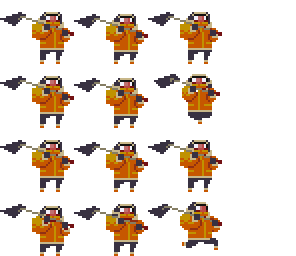
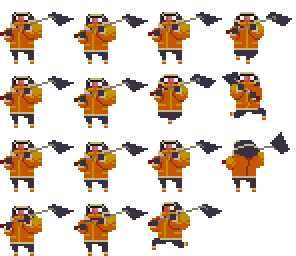
NPC tuning

diff --git a/src/entities/npc/NPC.cpp b/src/entities/npc/NPC.cpp
@@ -21,11 +21,13 @@ NPC::NPC(automa::ServiceProvider& svc, int id) : id(id) {
 	sprite_offset.x = in_data["sprite_offset"][0].as<int>();
 	sprite_offset.y = in_data["sprite_offset"][1].as<int>();
 
-	idle.lookup = in_data["animation"]["idle"][0].as<int>();
-	idle.duration = in_data["animation"]["idle"][1].as<int>();
-	idle.framerate = in_data["animation"]["idle"][2].as<int>();
-	idle.num_loops = in_data["animation"]["idle"][3].as<int>();
-	idle.repeat_last_frame = (bool)in_data["animation"]["idle"][4].as_bool();
+	sprite.setOrigin(in_data["sprite_origin"][0].as<float>(), in_data["sprite_origin"][1].as<float>());
+
+	animation.NPC_idle.lookup = in_data["animation"]["idle"][0].as<int>();
+	animation.NPC_idle.duration = in_data["animation"]["idle"][1].as<int>();
+	animation.NPC_idle.framerate = in_data["animation"]["idle"][2].as<int>();
+	animation.NPC_idle.num_loops = in_data["animation"]["idle"][3].as<int>();
+	animation.NPC_idle.repeat_last_frame = (bool)in_data["animation"]["idle"][4].as_bool();
 
 	collider = shape::Collider(dimensions);
 	collider.sync_components();
@@ -38,17 +40,23 @@ NPC::NPC(automa::ServiceProvider& svc, int id) : id(id) {
 	drawbox.setSize(dimensions);
 
 	sprite.setTexture(svc.assets.npcs.at(label));
-	animation.set_params(idle);
+	animation.animation.set_params(animation.NPC_idle);
+	direction.lr = dir::LR::left;
 }
 
 void NPC::update(automa::ServiceProvider& svc, world::Map& map, gui::Console& console, player::Player& player) {
-	Entity::update(svc, map);
 	animation.update();
+
+	direction.lr = (player.collider.physics.position.x < collider.physics.position.x) ? dir::LR::left : dir::LR::right;
+	Entity::update(svc, map);
+	if (ent_state.test(entity::State::flip)) {
+		animation.state.set(NPCAnimState::turn);
+		sprite_flip();
+	}
 
 	collider.update(svc);
 	collider.detect_map_collision(map);
 	collider.reset();
-	collider.reset_ground_flags();
 	collider.physics.acceleration = {};
 
 	state_flags.reset(NPCState::engaged);
@@ -71,7 +79,7 @@ void NPC::render(automa::ServiceProvider& svc, sf::RenderWindow& win, sf::Vector
 	int v = (int)(animation.get_frame() % spritesheet_dimensions.y) * sprite_dimensions.y;
 	sprite.setTextureRect(sf::IntRect({u, v}, {(int)sprite_dimensions.x, (int)sprite_dimensions.y}));
 
-	if (svc.debug_flags.test(automa::DebugFlags::greyblock_mode)) {
+	if (svc.greyblock_mode()) {
 		drawbox.setPosition(collider.physics.position - campos);
 		state_flags.test(NPCState::engaged) ? drawbox.setOutlineColor(svc.styles.colors.green) : drawbox.setOutlineColor(svc.styles.colors.dark_orange);
 		win.draw(drawbox);
@@ -85,6 +93,6 @@ void NPC::set_position(sf::Vector2<float> pos) { collider.physics.position = pos
 
 void NPC::set_position_from_scaled(sf::Vector2<float> scaled_pos) { collider.physics.position = scaled_pos * 32.f; }
 
-void NPC::set_id(int new_id) { id = id; }
+void NPC::set_id(int new_id) { id = new_id; }
 
 } // namespace entity

diff --git a/src/entities/npc/NPCAnimation.cpp b/src/entities/npc/NPCAnimation.cpp
@@ -1,0 +1,100 @@
+#include "NPCAnimation.hpp"
+
+namespace entity {
+
+void NPCAnimation::update() {
+	animation.update();
+	state_function = state_function();
+	state = {};
+}
+
+int NPCAnimation::get_frame() const { return animation.get_frame(); }
+
+fsm::StateFunction NPCAnimation::update_idle() {
+	animation.label = "idle";
+	if (state.test(NPCAnimState::turn)) {
+		state.reset(NPCAnimState::idle);
+		animation.set_params(NPC_turn);
+		return NPC_BIND(update_turn);
+	}
+	if (state.test(NPCAnimState::walk)) {
+		state.reset(NPCAnimState::idle);
+		animation.set_params(NPC_walk);
+		return NPC_BIND(update_walk);
+	}
+	if (state.test(NPCAnimState::inspect)) {
+		state.reset(NPCAnimState::idle);
+		animation.set_params(NPC_inspect);
+		return NPC_BIND(update_inspect);
+	}
+	state = {};
+	state.set(NPCAnimState::idle);
+	return std::move(state_function);
+}
+
+fsm::StateFunction NPCAnimation::update_walk() {
+	animation.label = "walk";
+	if (state.test(NPCAnimState::turn)) {
+		state.reset(NPCAnimState::walk);
+		animation.set_params(NPC_turn);
+		return NPC_BIND(update_turn);
+	}
+	if (state.test(NPCAnimState::idle) && animation.keyframe_over()) {
+		state.reset(NPCAnimState::walk);
+		animation.set_params(NPC_idle);
+		return NPC_BIND(update_idle);
+	}
+	if (state.test(NPCAnimState::inspect)) {
+		state.reset(NPCAnimState::walk);
+		animation.set_params(NPC_inspect);
+		return NPC_BIND(update_inspect);
+	}
+	state = {};
+	state.set(NPCAnimState::walk);
+	return std::move(state_function);
+}
+
+fsm::StateFunction NPCAnimation::update_turn() {
+	animation.label = "turn";
+	if (animation.complete()) {
+		if (state.test(NPCAnimState::walk)) {
+			state.reset(NPCAnimState::turn);
+			animation.set_params(NPC_walk);
+			return NPC_BIND(update_walk);
+		}
+		if (state.test(NPCAnimState::inspect)) {
+			state.reset(NPCAnimState::turn);
+			animation.set_params(NPC_inspect);
+			return NPC_BIND(update_inspect);
+		}
+		state = {};
+		state.set(NPCAnimState::idle);
+		animation.set_params(NPC_idle);
+		return NPC_BIND(update_idle);
+	}
+	state = {};
+	state.set(NPCAnimState::turn);
+	return NPC_BIND(update_turn);
+}
+
+fsm::StateFunction NPCAnimation::update_inspect() {
+	animation.label = "inspect";
+	if (animation.complete()) {
+		if (state.test(NPCAnimState::walk)) {
+			state.reset(NPCAnimState::inspect);
+			animation.set_params(NPC_walk);
+			animation.end();
+			return NPC_BIND(update_walk);
+		}
+		if (state.test(NPCAnimState::idle)) {
+			state.reset(NPCAnimState::inspect);
+			animation.set_params(NPC_idle);
+			animation.end();
+			return NPC_BIND(update_idle);
+		}
+	}
+	state = {};
+	state.set(NPCAnimState::inspect);
+	return NPC_BIND(update_inspect);
+}
+} // namespace entity

diff --git a/src/entities/npc/NPCAnimation.hpp b/src/entities/npc/NPCAnimation.hpp
@@ -1,0 +1,46 @@
+
+#pragma once
+
+#include <iostream>
+#include <optional>
+#include <unordered_map>
+#include "../../utils/StateFunction.hpp"
+#include "../animation/Animation.hpp"
+#define NPC_BIND(f) std::bind(&NPCAnimation::f, this)
+
+namespace entity {
+
+enum class NPCAnimState { idle, turn, walk, inspect };
+
+class NPCAnimation {
+
+  public:
+	NPCAnimation() {
+		state_function = state_function();
+		animation.set_params(NPC_idle);
+		animation.start();
+		state.set(NPCAnimState::idle);
+	}
+
+	anim::Animation animation{};
+	util::BitFlags<NPCAnimState> state{};
+
+	void update();
+	int get_frame() const;
+
+	float run_threshold{0.02f};
+
+	fsm::StateFunction state_function = std::bind(&NPCAnimation::update_idle, this);
+
+	fsm::StateFunction update_idle();
+	fsm::StateFunction update_turn();
+	fsm::StateFunction update_walk();
+	fsm::StateFunction update_inspect();
+
+  	anim::Parameters NPC_idle{};
+	anim::Parameters NPC_walk{};
+	anim::Parameters NPC_turn{};
+	anim::Parameters NPC_inspect{};
+};
+
+} // namespace entity

diff --git a/src/entities/npc/NPC.hpp b/src/entities/npc/NPC.hpp
@@ -4,7 +4,7 @@
 #include <string>
 #include "../../utils/Collider.hpp"
 #include "../Entity.hpp"
-#include "../animation/Animation.hpp"
+#include "NPCAnimation.hpp"
 #include <string_view>
 
 namespace automa {
@@ -37,11 +37,7 @@ class NPC : public Entity {
 	void set_id(int new_id);
 
   private:
-	anim::Animation animation{};
-	anim::Parameters idle{};
-	anim::Parameters walk{};
-	anim::Parameters turn{};
-	anim::Parameters inspect{};
+	NPCAnimation animation{};
 
 	shape::Collider collider{};
 	util::BitFlags<NPCState> state_flags{};

diff --git a/dependencies/sfml/include/SFML/Graphics/Font.hpp b/dependencies/sfml/include/SFML/Graphics/Font.hpp
@@ -208,7 +208,7 @@ public:
     /// \return Line spacing, in pixels
     ///
     ////////////////////////////////////////////////////////////
-    float getLineSpacing(unsigned int characterSize) const;
+    float get(unsigned int characterSize) const;
 
     ////////////////////////////////////////////////////////////
     /// \brief Get the position of the underline

diff --git a/src/graphics/TextWriter.cpp b/src/graphics/TextWriter.cpp
@@ -124,7 +124,7 @@ void TextWriter::stylize(sf::Text& msg, bool is_suite) {
 	msg.setCharacterSize(text_size);
 	msg.setFillColor(flcolor::ui_white);
 	msg.setFont(font);
-	msg.setLineSpacing(1.2f);
+	msg.setLineSpacing(1.5f);
 	if (is_suite) {
 		msg.setPosition(position);
 	} else {
